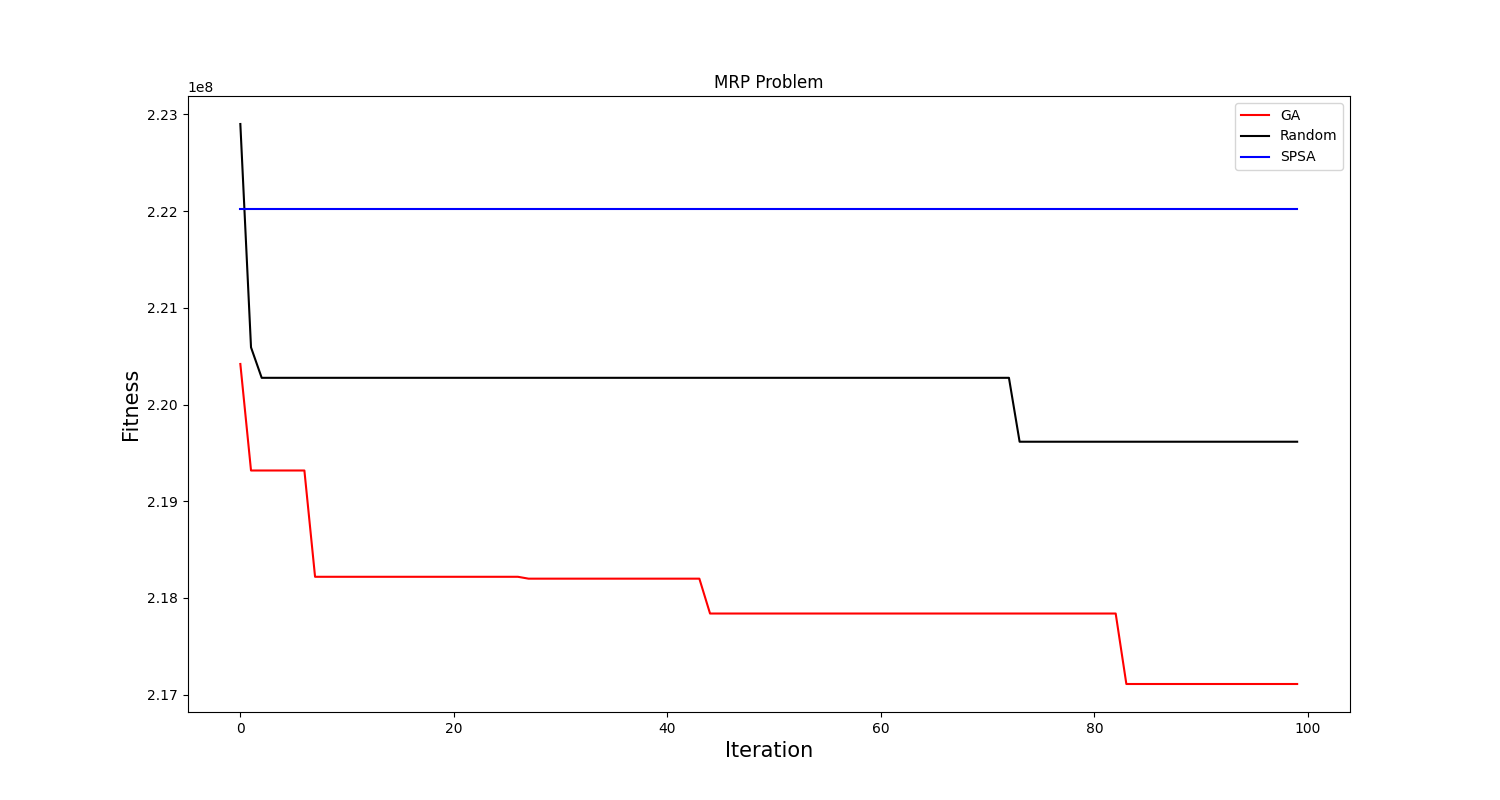
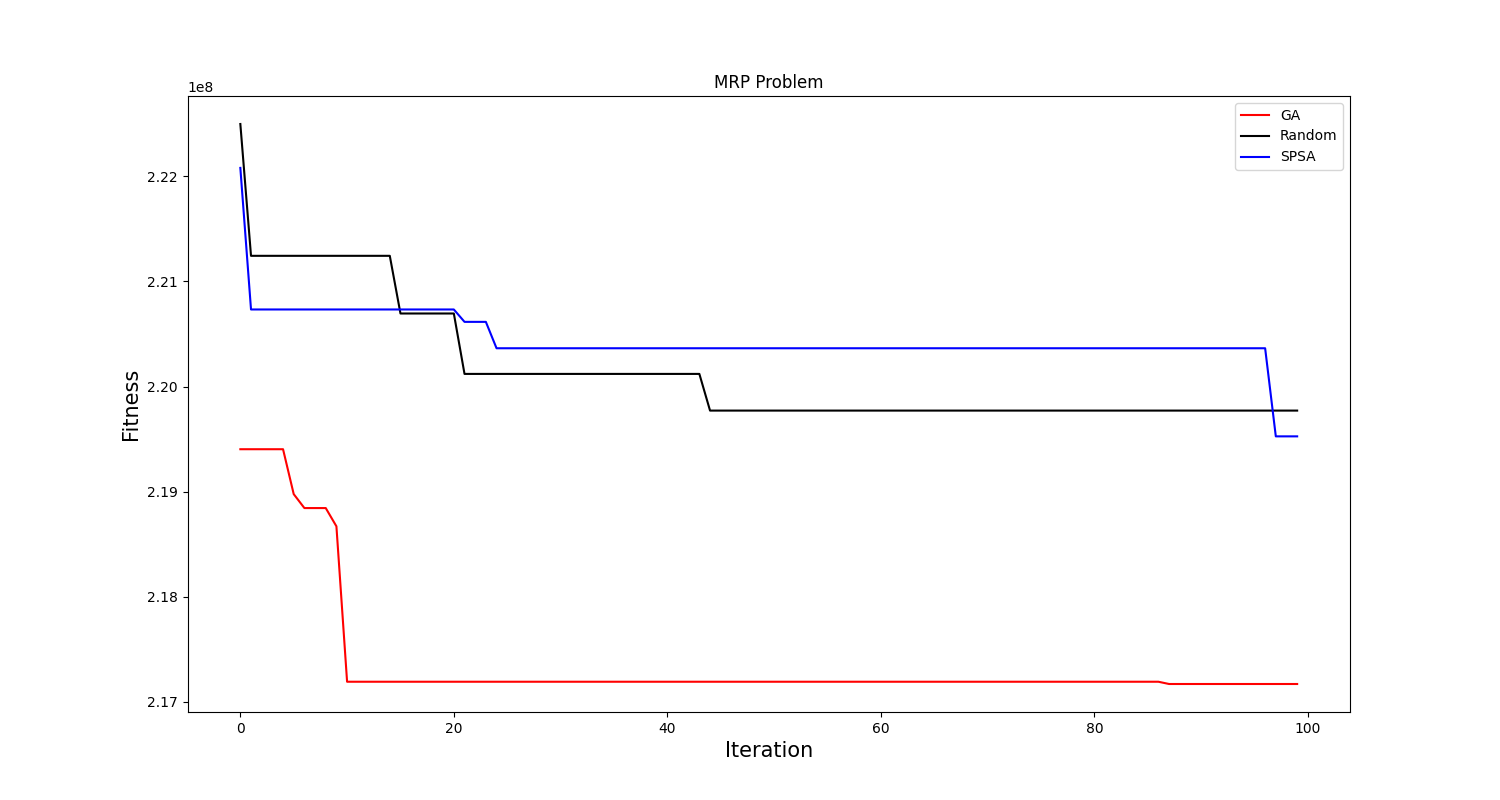
modified:   Plot.png 	modified:   __pycache__/opt_spsa.cpython-310.pyc 	modified:   opt_spsa.py

diff --git a/opt_spsa.py b/opt_spsa.py
@@ -12,7 +12,7 @@ MAX_INT=sys.maxsize
 def initial_sol(T, product_size, item_size, lower_bound = 0, upper_bound = 64):
 	return np.random.randint(lower_bound, upper_bound, size=(T, item_size))
 
-def normalization(T, product_size, item_size, sample_size = 10):
+def normalization(T, product_size, item_size, sample_size = 100):
 	sample_list = []
 	for i in range(sample_size):
 		sample_list.append(ros.replications_of_sim(T, product_size, item_size, initial_sol(T, product_size, item_size)))
@@ -29,13 +29,14 @@ def spsa_fun(T, product_size, item_size, opt_count_limit, lower_bound = 0, upper
 	'''
 	# -----------------------------------------------------------
 	# index setting (1)
-	alpha = 0.602 # .602 from (Spall, 1998)
-	gamma = 0.167 # .167 default
-	a = .101 # .101 found empirically using HyperOpt
-	A = .193
-	c = .0277 # .0277 defaultT * product_size *item_size
+	alpha = 0 # .602 from (Spall, 1998)
+	gamma = 0.0167 # .167 default
+	a = 1 # .101 found empirically using HyperOpt
+	A = .193 # .193 default
+	c = .0277 # .0277 default # T * product_size *item_size
 	u = initial_sol(T, product_size, item_size)
 	sample_mean, sample_std = normalization(T, product_size, item_size)
+	# print(sample_mean)
 	# scalar_u = ros.replications_of_sim(T, product_size, item_size, u)
 	# print(u)
 
@@ -64,7 +65,7 @@ def spsa_fun(T, product_size, item_size, opt_count_limit, lower_bound = 0, upper
 
 		# Step 4: Gradient approximation
 		g_k = np.dot((y_thetaplus - y_thetaminus) / (2.0*c_k), delta_k)
-		# print(g_k[0][0])
+		# print(a_k * g_k[0][0])
 
 		# Step 5: Update u estimate
 		# u = np.asarray(np.where((u-a_k*g_k<0, 0, u-a_k*g_k) & (u-a_k*g_k>64, 64, u-a_k*g_k)), dtype = 'int')
@@ -81,8 +82,7 @@ def spsa_fun(T, product_size, item_size, opt_count_limit, lower_bound = 0, upper
 
 	print("The best fitness:   %d" %(best_obj))
 	# -----------------------------------------------------------------------------------
-	'''
-	# visualization
+	'''# visualization
 	plt.figure(figsize = (15,8))
 	plt.xlabel("Iteration",fontsize = 15)
 	plt.ylabel("Fitness",fontsize = 15)
@@ -91,12 +91,12 @@ def spsa_fun(T, product_size, item_size, opt_count_limit, lower_bound = 0, upper
 	plt.legend()
 	plt.show()
 	'''
-
 	return best_obj, best_obj_list
 
-''' # test
+'''
+# test
 if __name__ == '__main__' :
 	print("go ...")
 	T, product_size, item_size = (200, 40, 30)
-	spsa_fun(T, product_size, item_size)
+	spsa_fun(T, product_size, item_size, 100)
 '''
